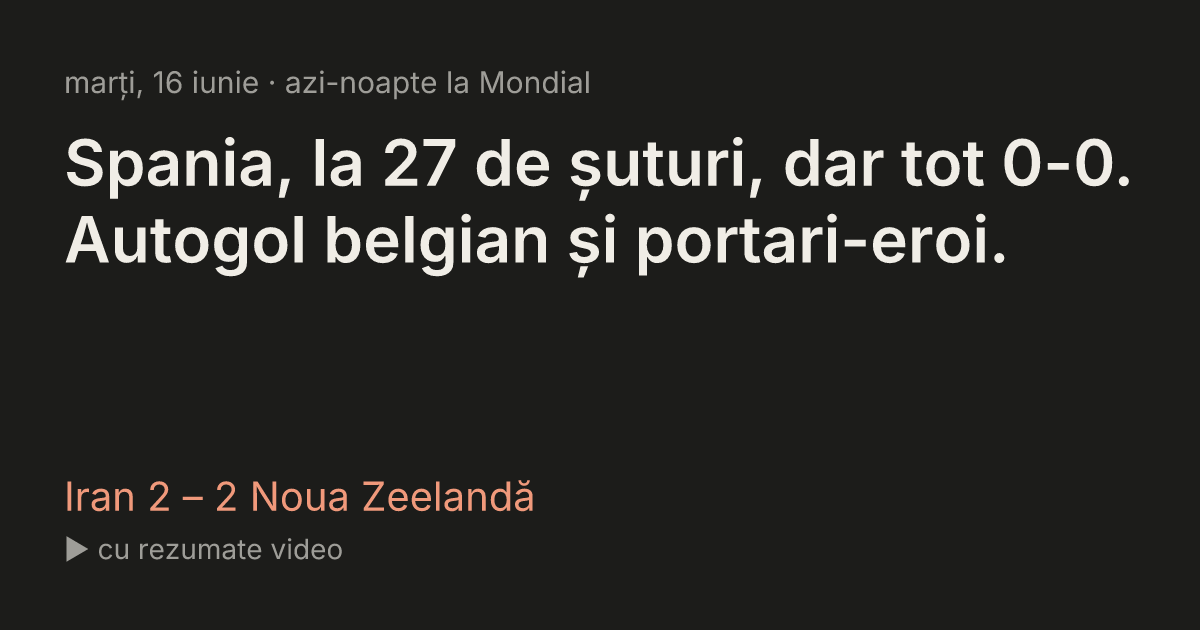
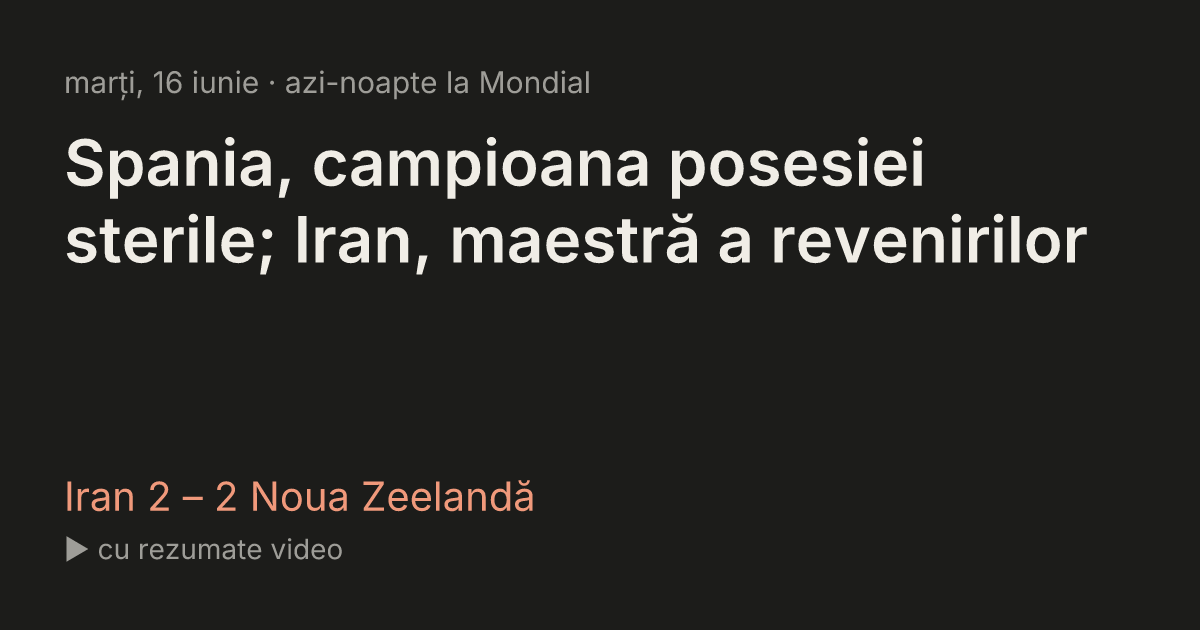
digest: restore 2026-06-16 to version A prose, keep all 4 highlight links
Re-narration on poll 8e5664c flipped back to version B (and dropped the Iran
assist). Restore version A's prose with all four highlight reels intact.

Changed region(s): [[0.0308, 0.2111, 0.9558, 0.4524]]

diff --git a/site/index.html b/site/index.html
@@ -5,8 +5,8 @@
   <meta name="viewport" content="width=device-width, initial-scale=1.0" />
   <title>Mondialul de dimineață</title>
   <!-- og:start -->
-  <meta property="og:title" content="Spania, la 27 de șuturi, dar tot 0-0. Autogol belgian și portari-eroi." />
-  <meta property="og:description" content="Spania a expediat 27 de șuturi, dar n-a reușit să bată Capul Verde, în timp ce Belgia s-a încurcat cu Egiptul, obținând un singur punct printr-un autogol. Ziua a fost marcată de echipe mici care au scos egaluri impresionante și de portari inspirați." />
+  <meta property="og:title" content="Spania, campioana posesiei sterile; Iran, maestră a revenirilor" />
+  <meta property="og:description" content="Spania a dominat fără efect Capul Verde, terminând 0-0 în ciuda unei posesii copleșitoare și a 27 de șuturi. Între timp, Uruguay a smuls un egal târziu cu Arabia Saudită, iar Iranul și Noua Zeelandă au oferit un spectacol cu patru goluri și două reveniri." />
   <meta property="og:image" content="https://mcandea04.github.io/mondial/data/og/2026-06-16.png" />
   <meta property="og:url" content="https://mcandea04.github.io/mondial/" />
   <meta property="og:type" content="website" />
